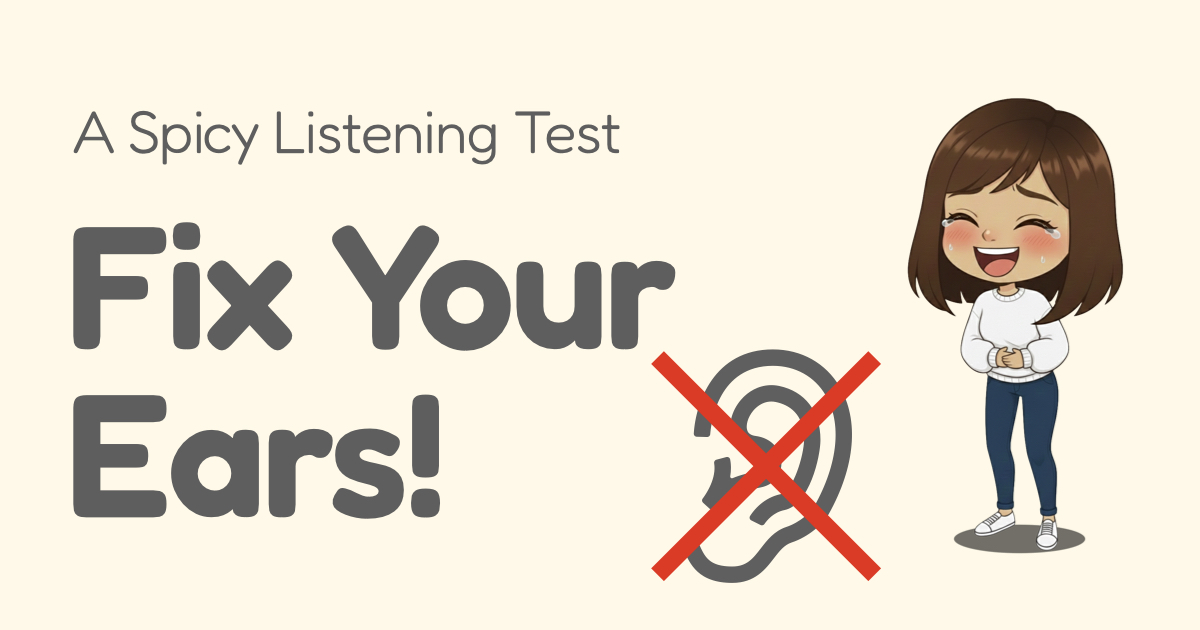
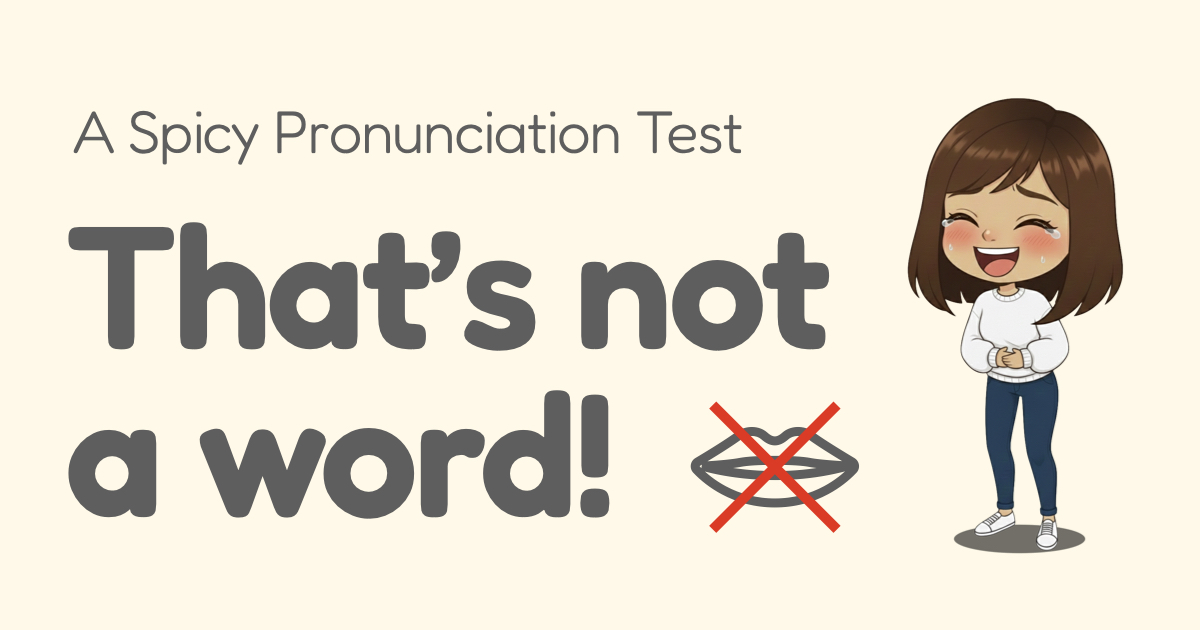
Update thumbnail and cache-bust OGP image URL

diff --git a/app/layout.tsx b/app/layout.tsx
@@ -27,7 +27,7 @@ export const metadata: Metadata = {
     description: "A Spicy Spelling Challenge - Can you spell what you hear?",
     images: [
       {
-        url: "/images/thumbnail.jpeg",
+        url: "/images/thumbnail.jpeg?v=2",
         width: 1200,
         height: 630,
         alt: "Fix Your Ears",
@@ -39,7 +39,7 @@ export const metadata: Metadata = {
     card: "summary_large_image",
     title: "Fix Your Ears",
     description: "A Spicy Spelling Challenge - Can you spell what you hear?",
-    images: ["/images/thumbnail.jpeg"],
+    images: ["/images/thumbnail.jpeg?v=2"],
   },
 };
 
